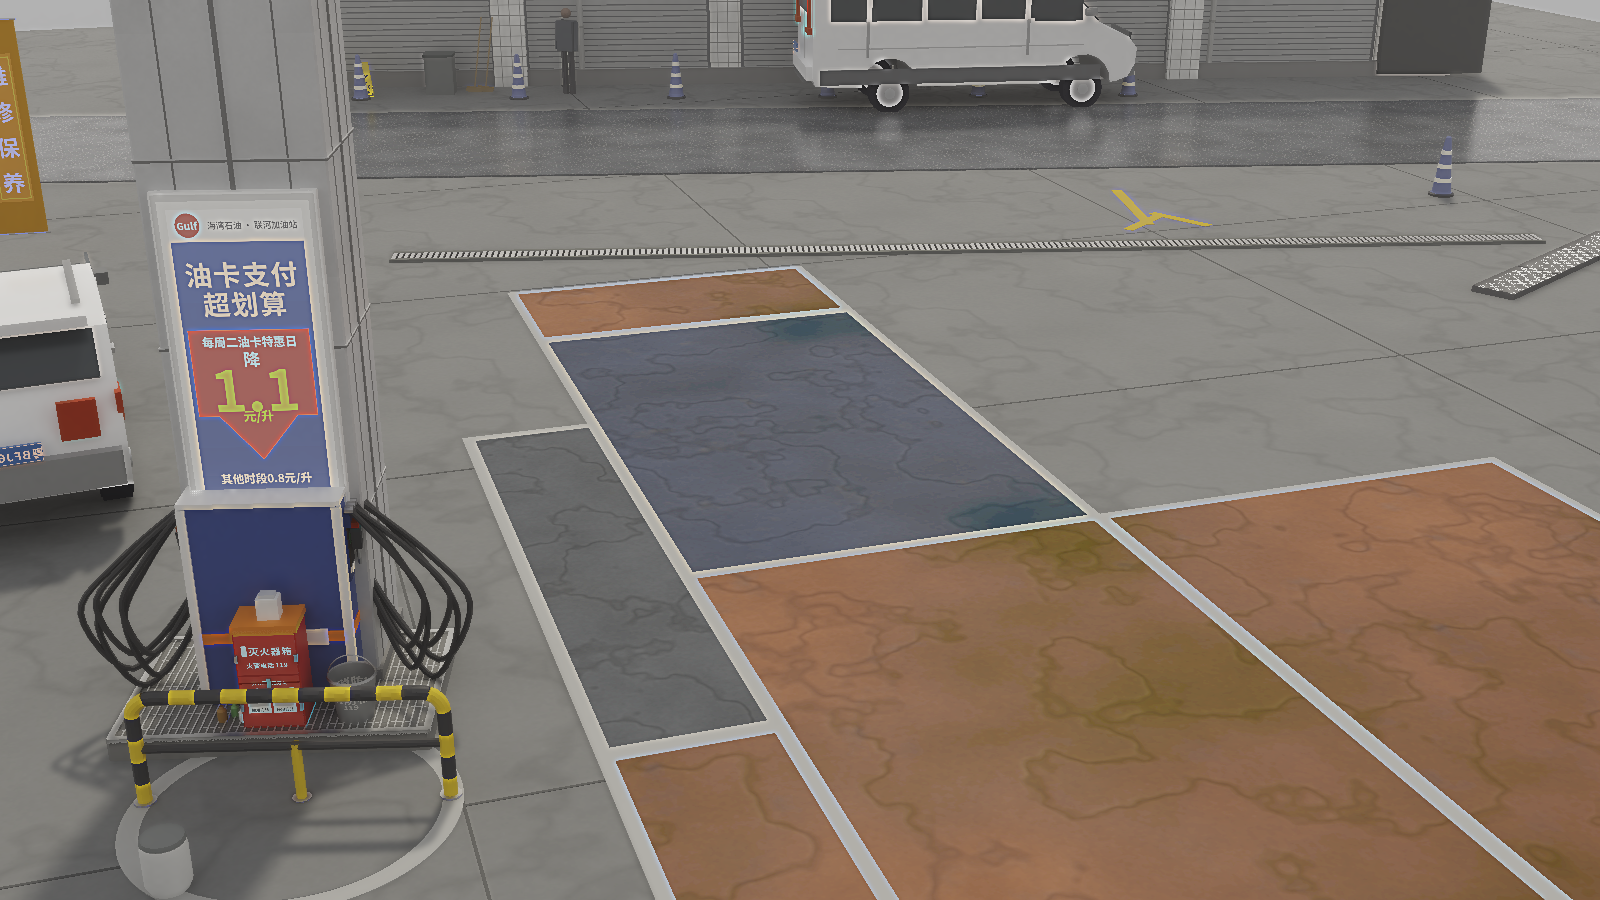
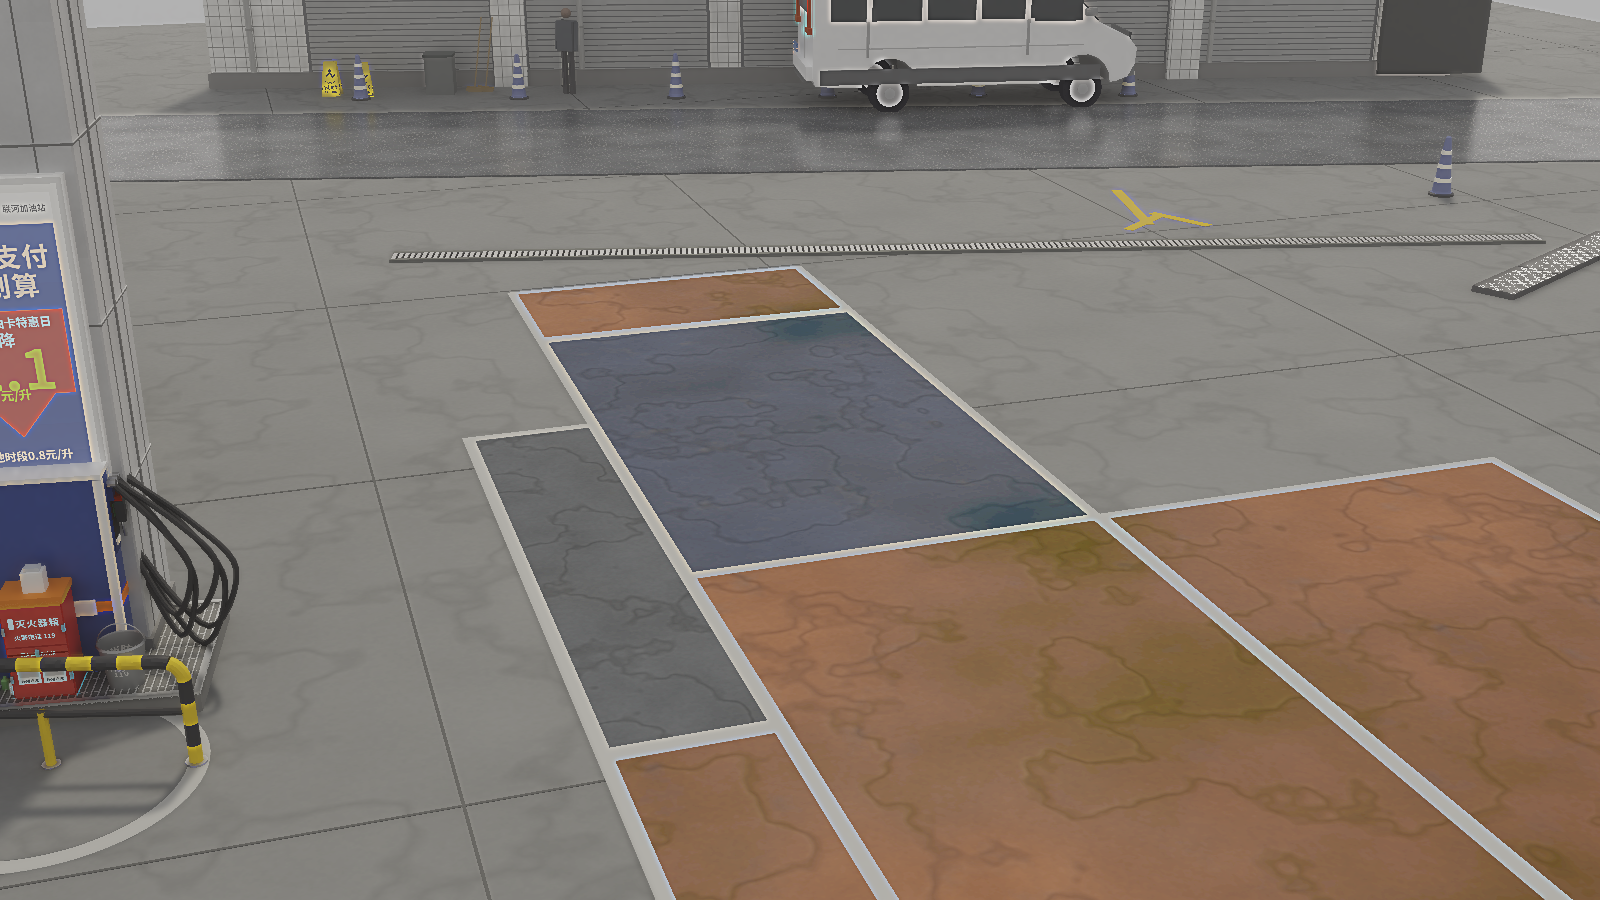
fit_ground is a hint, not a verdict: two for two on objects in clutter
The speed hump, alone on bare concrete, fitted 10.78 -> 2.47 px and was right.
The rail and the island both fitted beautifully and were both wrong:

  rail    13.69 -> 4.82, and it had walked 2.5 m INTO the hose tangle
  island   8.87 -> 3.37, and the render shows it pushed half out of frame

Which is precisely what chamfer_per_object's docstring already warned about --
"an object sitting in clutter is near SOMETHING no matter where you put it" --
written there as a caveat about READING the score, and true just as sharply
about minimising it. An outline surrounded by edges finds support wherever it
goes.

So both are back at the positions unprojected from their own footprints, the
ring and the jerrycan ride on the island instead of repeating its coordinates,
and the rule is written where it will be read: fit_ground proposes, the overlay
and the render dispose. It keeps its place for what it is good at -- isolated
objects on clean ground, where it beats any amount of nudging.

Changed region(s): [[0.0, 0.0, 0.3125, 1.0]]

diff --git a/examples/cases/26_forecourt.py b/examples/cases/26_forecourt.py
@@ -57,13 +57,20 @@ ANG = -15.0
 #   name: (build, [x, y, z], yaw)
 def PLACEMENTS():
     return {
-        "island":  (P.island, [-4.62, -0.15, 0], ANG + 6.0),
+        # Back at the position unprojected from its FOOTPRINT. fit_ground offered
+        # [-4.62, -0.15] and halved the chamfer getting there (8.87 -> 3.37) -- and the
+        # render shows it pushed half out of frame. Same failure as the rail, one object
+        # later: an outline in clutter finds support wherever you put it. Two for two, so
+        # the rule is now explicit -- fit_ground is a HINT, and the overlay and the render
+        # are the verdict. It earns its keep on isolated objects (the speed hump, alone on
+        # bare concrete, went 10.78 -> 2.47 and was right).
+        "island":  (P.island, [-3.12, -1.05, 0], ANG),
         # RIGIDLY tied to the island: in the photograph the hoop stands 1.25 m in front of
         # the plinth and always will. fit_ground moved it 2.5 m the other way and improved
         # its chamfer doing it, because it landed in the hose tangle -- exactly the failure
         # photomatch.chamfer_per_object documents ("an object sitting in clutter is near
         # SOMETHING no matter where you put it"). The overlay caught it; the number did not.
-        "rail":    (lambda: P.hazard_rail(1.88, 0.74), [-4.66, -1.40, 0], ANG - 1),
+        "rail":    (lambda: P.hazard_rail(1.88, 0.74), [-3.16, -2.30, 0], ANG - 1),
         "van":     (P.van, [9.9, 17.4, 0], ANG + 4),
         "suv":     (P.suv, [-5.3, 4.4, 0], 96),
         "hump":    (lambda: P.speed_hump(3.6, 0.52), [12.6, 5.0, 0], 26),
